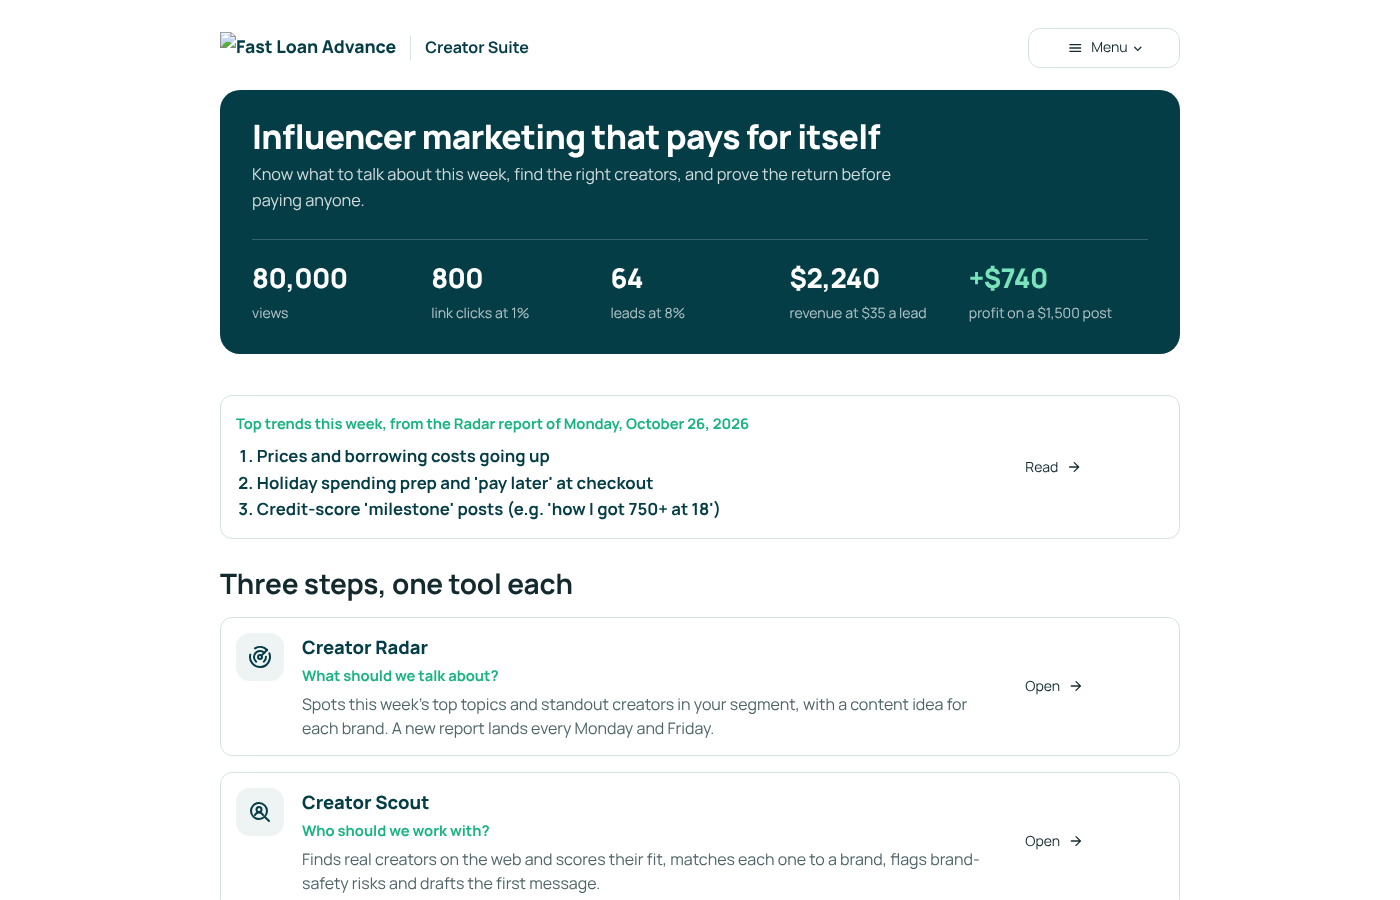
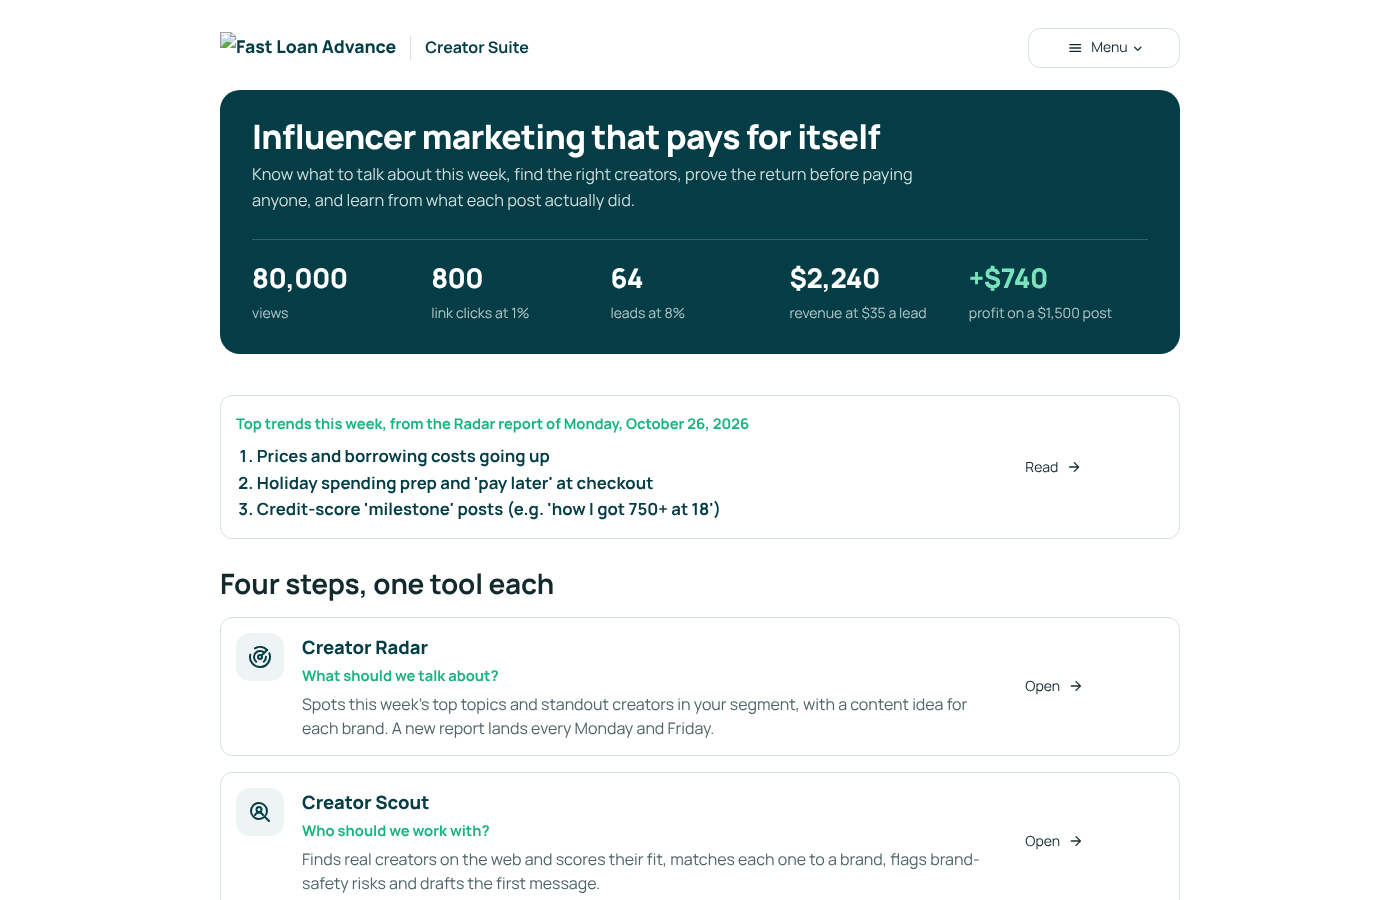
Add Creator Performance, the fourth tool
Compares two posts by shares, profile visits, saves and link clicks per
1,000 views, highlights the winner with an Nx ratio, recommends the post
to build on and a follow-up, and lists what the numbers can't tell. No
Claude call, so it is free to run. Starts blank, and is shown as step
four on the home page.

Claude-Session: https://claude.ai/code/session_01GsFj1HvsasgLCrXsYE9AYZ

Changed region(s): [[0.1536, 0.6222, 0.3993, 0.6844], [0.1843, 0.2178, 0.4607, 0.2489], [0.4914, 0.1867, 0.645, 0.2178]]

diff --git a/core/performance.py b/core/performance.py
@@ -1,0 +1,97 @@
+"""Creator Performance math: compare two posts by what people did per 1,000 views. No Claude call."""
+
+from dataclasses import dataclass
+
+# The page starts empty: the team types in the numbers of two real posts.
+BLANK = {
+    "A": {"name": "Post 1", "views": 0, "shares": 0, "visits": 0, "saves": 0, "clicks": 0},
+    "B": {"name": "Post 2", "views": 0, "shares": 0, "visits": 0, "saves": 0, "clicks": 0},
+}
+
+# metric key, label. Saves and link clicks are optional and only compared when someone entered them.
+METRICS = [("shares", "Shares"), ("visits", "Profile visits"), ("saves", "Saves"), ("clicks", "Link clicks")]
+OPTIONAL = {"saves", "clicks"}
+
+LIMITS = [
+    "How long people watched (retention and completion rate).",
+    "Where the views came from: followers, non-followers, or paid promotion.",
+    "Whether profile visits turned into entries, sign-ups or link clicks.",
+    "Comment sentiment, including trust questions like \"is this legit?\".",
+    "Whether the sample is large enough. A single post is a signal, not proof.",
+]
+
+
+@dataclass
+class Post:
+    name: str
+    views: int
+    shares: int
+    visits: int
+    saves: int = 0
+    clicks: int = 0
+
+
+@dataclass
+class Rate:
+    label: str
+    a: float
+    b: float
+    winner: str | None  # "A", "B" or None when equal
+    ratio: str
+
+
+def per_1k(count: float, views: float) -> float:
+    return count / views * 1000 if views > 0 else 0.0
+
+
+def fmt(n: float) -> str:
+    return f"{n:,.1f}".removesuffix(".0")
+
+
+def ratio(a: float, b: float, name_a: str = "A", name_b: str = "B") -> str:
+    if a == b:
+        return "Same"
+    if a == 0:
+        return f"Only {name_b} has activity"
+    if b == 0:
+        return f"Only {name_a} has activity"
+    r = b / a
+    return f"{name_b} is {fmt(r)}x {name_a}" if r >= 1 else f"{name_a} is {fmt(1 / r)}x {name_b}"
+
+
+def compare(a: Post, b: Post) -> list[Rate]:
+    rates = []
+    for key, label in METRICS:
+        ca, cb = getattr(a, key), getattr(b, key)
+        if key in OPTIONAL and not (ca or cb):
+            continue
+        ra, rb = per_1k(ca, a.views), per_1k(cb, b.views)
+        winner = "A" if ra > rb else "B" if rb > ra else None
+        rates.append(Rate(f"{label} per 1,000 views", ra, rb, winner, ratio(ra, rb, a.name, b.name)))
+    return rates
+
+
+def recommend(a: Post, b: Post, rates: list[Rate]) -> list[str]:
+    """Plain-language next step. It reads the rates; it never predicts virality."""
+    score = sum((r.winner == "B") - (r.winner == "A") for r in rates)
+    if score == 0:
+        return ["The posts perform about the same per view. Test a new hook before choosing a direction."]
+    side = "B" if score > 0 else "A"
+    win, lose = (b, a) if side == "B" else (a, b)
+    won = [r.label.split(" per ")[0].lower() for r in rates if r.winner == side]
+    text = [
+        (
+            f"**Build on {win.name}.** Per view, it got more {', '.join(won[:-1]) + ' and ' if len(won) > 1 else ''}"
+            f"{won[-1]}. People acting on a post, not just seeing it, is what carries it beyond our followers."
+        )
+    ]
+    if lose.views > win.views:
+        text.append(
+            f"{lose.name} reached more people but few acted. Keep its hook as a reach idea, "
+            f"and pair it with {win.name}'s message."
+        )
+    text.append(
+        f"**Follow-up post:** a new version of {win.name} with the same angle and one clear call to action. "
+        "Put a small boost behind it to test whether the share rate holds with people who don't follow us yet."
+    )
+    return text

diff --git a/views/performance.py b/views/performance.py
@@ -1,0 +1,74 @@
+from html import escape
+
+import streamlit as st
+
+from core.performance import BLANK, LIMITS, Post, compare, fmt, recommend
+from core.ui import header
+
+header("performance", "Creator Performance", "Compare two posts by what people did per 1,000 views, not by raw views, and decide what to post next.")
+
+FIELDS = [
+    ("views", "Views"),
+    ("shares", "Shares"),
+    ("visits", "Profile visits"),
+    ("saves", "Saves (optional)"),
+    ("clicks", "Link clicks (optional)"),
+]
+
+
+def clear():
+    for side, values in BLANK.items():
+        for key, value in values.items():
+            st.session_state[f"{side}_{key}"] = value
+
+
+if "A_views" not in st.session_state:
+    clear()
+
+st.subheader("Enter results")
+with st.container(border=True):
+    head = st.columns([1.3, 2, 2], vertical_alignment="center")
+    head[0].markdown("**Post**")
+    names = {side: col.text_input(f"Post {side}", key=f"{side}_name", label_visibility="collapsed") or f"Post {side}"
+             for side, col in zip("AB", head[1:])}
+    values = {"A": {}, "B": {}}
+    for key, label in FIELDS:
+        row = st.columns([1.3, 2, 2], vertical_alignment="center")
+        row[0].markdown(label)
+        for side, col in zip("AB", row[1:]):
+            values[side][key] = col.number_input(
+                f"{label}, post {side}", min_value=0, step=100, key=f"{side}_{key}", label_visibility="collapsed"
+            )
+    posts = {side: Post(name=names[side], **values[side]) for side in "AB"}
+st.button("Clear", icon=":material/restart_alt:", on_click=clear)
+
+a, b = posts["A"], posts["B"]
+if not (a.views and b.views):
+    st.info("Enter the views and the shares or profile visits of two posts to compare them.", icon=":material/edit:")
+    st.caption("This tool runs no Claude call, so it costs nothing to use.")
+else:
+    rates = compare(a, b)
+
+    st.subheader("Rates per 1,000 views")
+    rows = "".join(
+        f"<tr><td>{r.label}</td>"
+        f'<td class="{"win" if r.winner == "A" else ""}">{fmt(r.a)}</td>'
+        f'<td class="{"win" if r.winner == "B" else ""}">{fmt(r.b)}</td>'
+        f"<td>{r.ratio}</td></tr>"
+        for r in rates
+    )
+    st.html(
+        '<table class="rates"><thead><tr><th>Rate</th>'
+        f"<th>{escape(a.name)}</th><th>{escape(b.name)}</th><th>Difference</th></tr></thead>"
+        f"<tbody>{rows}</tbody></table>"
+    )
+    st.caption(f"Views: {escape(a.name)} {a.views:,}, {escape(b.name)} {b.views:,}. The higher rate in each row is in green.")
+
+    st.subheader("Recommendation")
+    with st.container(border=True):
+        for paragraph in recommend(a, b, rates):
+            st.markdown(paragraph)
+
+    st.subheader("What these numbers can't tell you")
+    st.markdown("\n".join(f"- {item}" for item in LIMITS))
+    st.caption("Hook ideas are hypotheses to test. This tool doesn't predict virality. It runs no Claude call, so it costs nothing to use.")

diff --git a/core/ui.py b/core/ui.py
@@ -20,6 +20,7 @@ ICONS = {
     "scout": '<circle cx="11" cy="11" r="8"/><path d="m21 21-4.3-4.3"/><circle cx="11" cy="9.5" r="2.5"/>'
     '<path d="M7 15a4.5 4.5 0 0 1 8 0"/>',
     "roi": '<circle cx="12" cy="12" r="10"/><path d="M16 8h-6a2 2 0 1 0 0 4h4a2 2 0 1 1 0 4H8"/><path d="M12 18V6"/>',
+    "performance": '<path d="M3 3v16a2 2 0 0 0 2 2h16"/><path d="M18 17V9"/><path d="M13 17V5"/><path d="M8 17v-3"/>',
 }
 
 CSS = """
@@ -52,6 +53,10 @@ header[data-testid="stHeader"] {display: none;}
 .tool h3 {font-size: 1.15rem; font-weight: 800; color: var(--teal); margin: 0 0 2px; padding: 0;}
 .tool .q {color: var(--signal); font-weight: 700; font-size: .92rem; margin-bottom: 4px;}
 .tool p {color: var(--slate); margin: 0; line-height: 1.5;}
+.rates {width: 100%; border-collapse: collapse; font-size: 1rem;}
+.rates th {text-align: left; color: var(--slate); font-weight: 600; font-size: .88rem; padding: 10px 12px; border-bottom: 1px solid var(--line);}
+.rates td {padding: 12px; border-bottom: 1px solid var(--line); color: var(--teal);}
+.rates td.win {color: var(--signal); font-weight: 800;}
 [data-testid="stMetric"] {background: var(--mist); border-radius: 14px; padding: 14px 18px; min-height: 120px;}
 [data-testid="stMetricValue"] {font-weight: 800; color: var(--teal);}
 .footer {margin-top: 3rem; padding-top: 14px; border-top: 1px solid var(--line); color: var(--slate); font-size: .82rem;}
@@ -79,6 +84,7 @@ PAGES = [
     ("views/radar.py", "Creator Radar", ":material/radar:", "creator-radar", "What should we talk about?"),
     ("views/scout.py", "Creator Scout", ":material/person_search:", "creator-scout", "Who should we work with?"),
     ("views/roi.py", "Creator ROI Planner", ":material/payments:", "creator-roi-planner", "Does it make money?"),
+    ("views/performance.py", "Creator Performance", ":material/insights:", "creator-performance", "What actually worked?"),
 ]
 
 

diff --git a/views/home.py b/views/home.py
@@ -12,7 +12,8 @@ out = project(example)
 
 st.html(
     '<div class="band"><h1>Influencer marketing that pays for itself</h1>'
-    "<p>Know what to talk about this week, find the right creators, and prove the return before paying anyone.</p>"
+    "<p>Know what to talk about this week, find the right creators, prove the return before paying anyone, "
+    "and learn from what each post actually did.</p>"
     '<div class="chain">'
     f"<div><b>{example.views:,.0f}</b><span>views</span></div>"
     f"<div><b>{out.clicks:,.0f}</b><span>link clicks at 1%</span></div>"
@@ -55,9 +56,16 @@ TOOLS = [
             "tracking links and a compliant brief."
         ),
     ),
+    (
+        "performance",
+        (
+            "Compares posts by shares and profile visits per 1,000 views, picks the one to build on and suggests "
+            "the follow-up post. No Claude call, so it's free to use."
+        ),
+    ),
 ]
 
-st.subheader("Three steps, one tool each")
+st.subheader("Four steps, one tool each")
 for (name, text), (path, title, *_, question) in zip(TOOLS, PAGES[1:]):
     with st.container(border=True):
         left, right = st.columns([5, 1], vertical_alignment="center")
@@ -69,6 +77,6 @@ for (name, text), (path, title, *_, question) in zip(TOOLS, PAGES[1:]):
         right.page_link(path, label="Open", icon=":material/arrow_forward:", icon_position="right")
 
 st.caption(
-    "Opening the suite and using the ROI Planner is free. Claude runs only when you press a research button, "
+    "Opening the suite, the ROI Planner and Creator Performance are free. Claude runs only when you press a research button, "
     "at about $1 a scan, and every result shows what it cost."
 )

diff --git a/tests/test_performance.py b/tests/test_performance.py
@@ -1,0 +1,29 @@
+from core.performance import BLANK, Post, compare, ratio, recommend
+
+
+def test_rates_and_recommendation():
+    a = Post("Post 1", views=50_000, shares=50, visits=25)
+    b = Post("Post 2", views=10_000, shares=200, visits=100)
+    rates = compare(a, b)
+    assert [(r.a, r.b, r.winner, r.ratio) for r in rates] == [
+        (1.0, 20.0, "B", "Post 2 is 20x Post 1"),
+        (0.5, 10.0, "B", "Post 2 is 20x Post 1"),
+    ]
+    text = " ".join(recommend(a, b, rates))
+    assert "Build on Post 2" in text
+    assert "Post 1 reached more people" in text
+
+
+def test_optional_metrics_and_ties():
+    a = Post("A", views=1000, shares=10, visits=5, saves=3)
+    b = Post("B", views=1000, shares=10, visits=5)
+    rates = compare(a, b)
+    assert [r.label for r in rates] == ["Shares per 1,000 views", "Profile visits per 1,000 views", "Saves per 1,000 views"]
+    assert ratio(2, 2) == "Same"
+    assert ratio(0, 3) == "Only B has activity"
+    tie = recommend(Post("A", 1000, 1, 1), Post("B", 1000, 1, 1), compare(Post("A", 1000, 1, 1), Post("B", 1000, 1, 1)))
+    assert tie[0].startswith("The posts perform about the same")
+
+
+def test_page_starts_blank():
+    assert all(v == 0 for side in BLANK.values() for k, v in side.items() if k != "name")

diff --git a/tests/test_pages.py b/tests/test_pages.py
@@ -11,7 +11,7 @@ from core.scout import Creator, ScoutResult
 def test_every_page_renders():
     at = AppTest.from_file("../Home.py", default_timeout=30).run()
     assert not at.exception, at.exception
-    for page in ["views/radar.py", "views/scout.py", "views/roi.py"]:
+    for page in ["views/radar.py", "views/scout.py", "views/roi.py", "views/performance.py"]:
         at.switch_page(page).run()
         assert not at.exception, (page, at.exception)
 

diff --git a/README.md b/README.md
@@ -2,7 +2,7 @@
 
 Influencer marketing tools for Fast Loan Advance, built with Claude: weekly trends, creator discovery and ROI planning.
 
-Influencer marketing usually stalls on three questions: **what should we talk about?**, **who should we work with?** and **how does this make money?** These three tools answer them, and they're built to work together.
+Influencer marketing usually stalls on four questions: **what should we talk about?**, **who should we work with?**, **how does this make money?** and **what actually worked?** These four tools answer them, and they're built to work together.
 
 ![Home](docs/home.png)
 
@@ -43,6 +43,12 @@ Treats every sponsored post as a small lead-gen campaign: **views → clicks →
 - **Campaign brief:** Claude writes a brief with FTC disclosure rules, finance-specific don'ts (no guaranteed approval claims) and a "needs legal review" list.
 
 ![ROI Planner](docs/roi.png)
+
+## 📊 Creator Performance
+
+Compares two posts by what people did per 1,000 views, not by raw views. Enter views, shares and profile visits (saves and link clicks are optional); it highlights the higher rate, shows how many times better it is, recommends which post to build on and the follow-up post, and lists what the numbers can't tell you (watch time, traffic source, entries, sentiment, sample size). It never claims to predict virality, and it makes no Claude call, so it costs nothing to run.
+
+![Creator Performance](docs/performance.png)
 
 ## Run it locally
 
